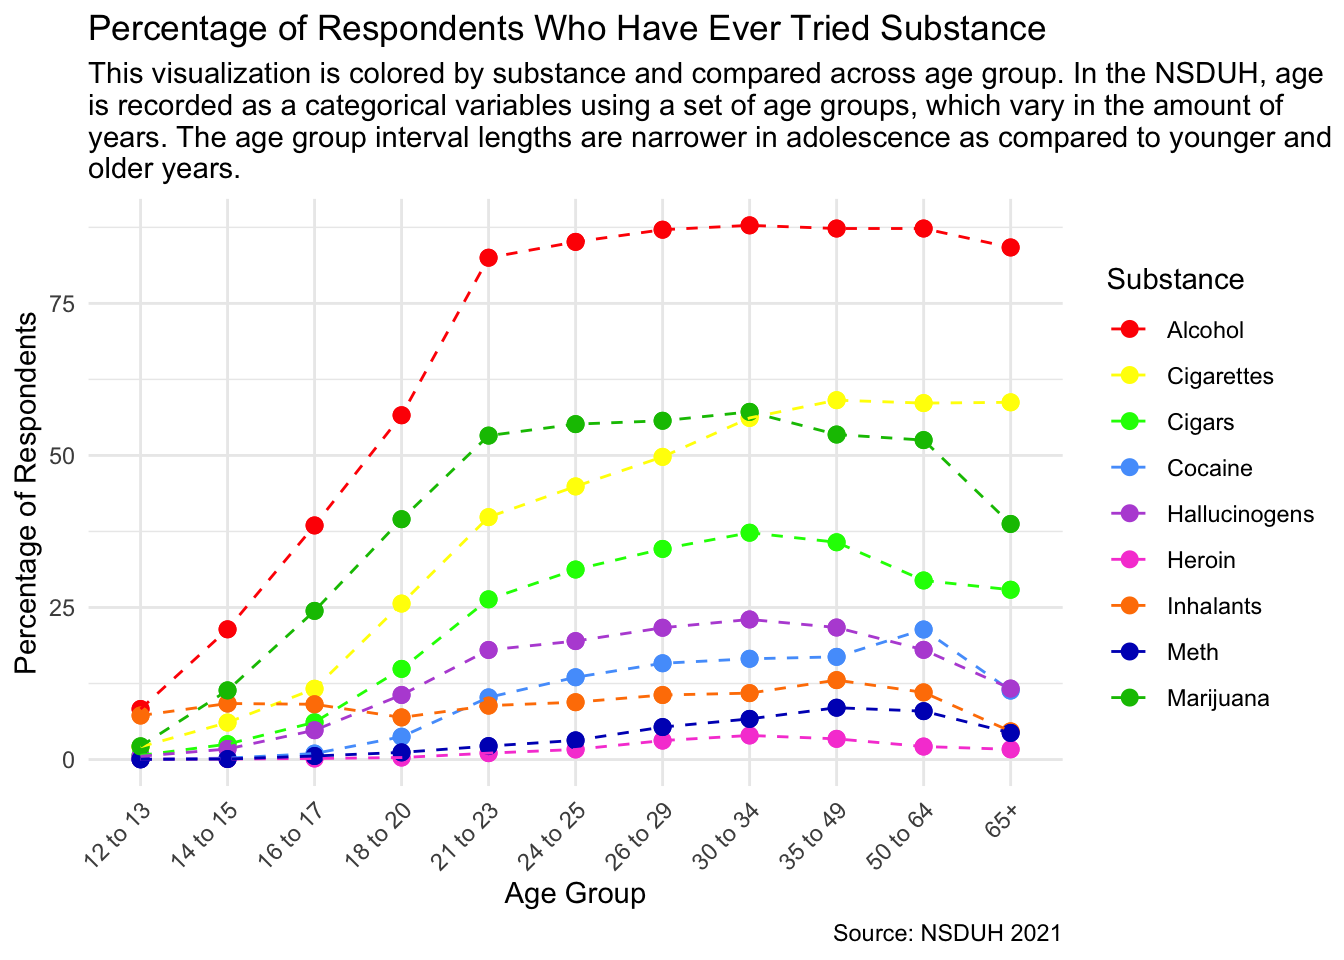
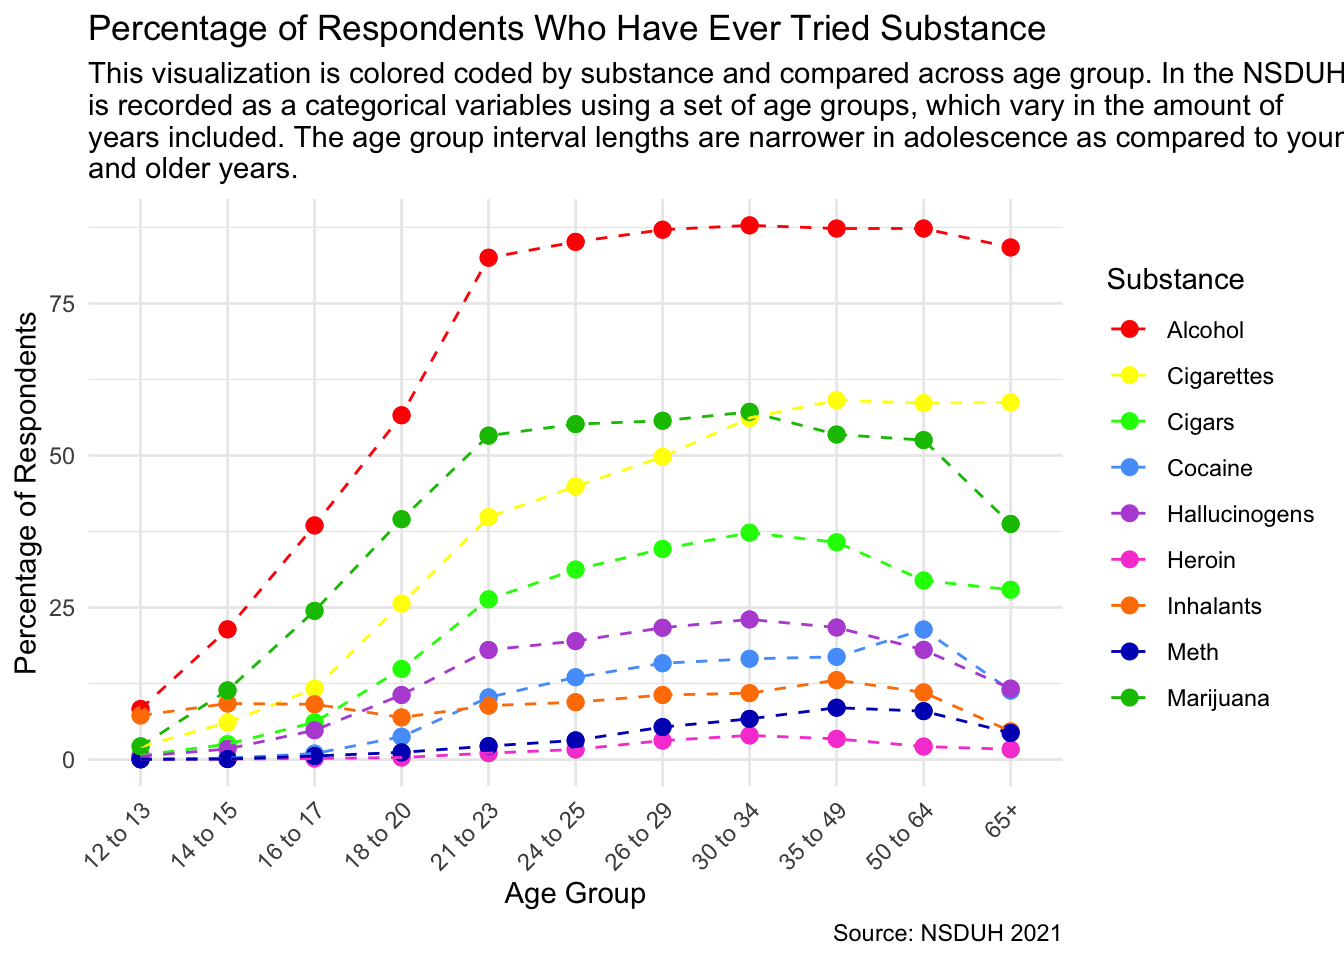
Revises language in example analysis

Changed region(s): [[0.0625, 0.125, 1.0, 0.1875], [0.3438, 0.0625, 1.0, 0.0938]]

diff --git a/docs/Example_Analysis.html b/docs/Example_Analysis.html
@@ -204,8 +204,8 @@ div.csl-indent {
 <section id="research-question" class="level1">
 <h1>Research Question</h1>
 <p><strong>How does recreational substance use vary across age and sex?</strong></p>
-<p>A person’s relationship with substance use is dynamic and may change throughout their life. With this in mind, researchers are often interested in exploring how different groups of people use recreational drugs. Recently, there have been increased concerns about the interaction of substance use and mental health issues for youth<span class="citation" data-cites="panchal_recent_2022"><sup><a href="#ref-panchal_recent_2022" role="doc-biblioref">1</a></sup></span>. Other reports have described increased binge drinking and marijuana use among middle aged adults<span class="citation" data-cites="richtel_middle-aged_2023"><sup><a href="#ref-richtel_middle-aged_2023" role="doc-biblioref">2</a></sup></span> and substance use disorders among older adults<span class="citation" data-cites="span_substance_2023"><sup><a href="#ref-span_substance_2023" role="doc-biblioref">3</a></sup></span>. While men are more likely to use substances than women<span class="citation" data-cites="noauthor_sex_nodate"><sup><a href="#ref-noauthor_sex_nodate" role="doc-biblioref">4</a></sup></span>, stigmatization contributes to women being less likely to connect with substance use treatment resources<span class="citation" data-cites="krug_women_2023"><sup><a href="#ref-krug_women_2023" role="doc-biblioref">5</a></sup></span>. Overall, understanding how different groups of people interact with substances helps medical and public health professionals support these impacted groups.</p>
-<p>In this analysis, I am interested in further exploring how substance use varies across age and sex in the United States. To do so, I will be using survey data from the National Survey on Drug Use and Health. This analysis is intended for anyone interested in public health and trends related to these topics.</p>
+<p>A person’s relationship with substance use is dynamic and may change throughout their life. Researchers are often interested in exploring how different groups of people use recreational drugs. Recently, there have been increased concerns about the interaction of substance use and mental health issues for youth<span class="citation" data-cites="panchal_recent_2022"><sup><a href="#ref-panchal_recent_2022" role="doc-biblioref">1</a></sup></span>. Other reports have described increased binge drinking and marijuana use among middle aged adults<span class="citation" data-cites="richtel_middle-aged_2023"><sup><a href="#ref-richtel_middle-aged_2023" role="doc-biblioref">2</a></sup></span> and substance use disorders among older adults<span class="citation" data-cites="span_substance_2023"><sup><a href="#ref-span_substance_2023" role="doc-biblioref">3</a></sup></span>. While men are more likely to use substances than women<span class="citation" data-cites="noauthor_sex_nodate"><sup><a href="#ref-noauthor_sex_nodate" role="doc-biblioref">4</a></sup></span>, stigmatization contributes to women being less likely to connect with substance use treatment resources<span class="citation" data-cites="krug_women_2023"><sup><a href="#ref-krug_women_2023" role="doc-biblioref">5</a></sup></span>. Overall, understanding how different groups of people interact with recreational drugs helps medical and public health professionals better support these impacted groups.</p>
+<p>In this analysis, I am interested in further exploring how substance use varies across age and sex in the United States. To do so, I will be using survey data from the National Survey on Drug Use and Health. This analysis is intended for anyone interested in public health and trends related to these important topics.</p>
 </section>
 <section id="data-source" class="level1 page-columns page-full">
 <h1>Data Source</h1>
@@ -219,12 +219,12 @@ div.csl-indent {
 <li><p>Integrating Behavioral and Physical Health Care</p></li>
 <li><p>Strengthening the Behavioral Health Workforce</p></li>
 </ul>
-</div></div><p>I used data from the 2021 <a href="https://nsduhweb.rti.org/respweb/homepage.cfm">National Survey of Drug Use and Health</a>. The NSDUH has been conducted by the U.S. government since 1971. This survey explores questions related to substance use, mental health, and other health concerns. I used <a href="https://www.datafiles.samhsa.gov/dataset/national-survey-drug-use-and-health-2021-nsduh-2021-ds0001">this link</a> to download the dataset and the codebook can be found <a href="https://www.datafiles.samhsa.gov/sites/default/files/field-uploads-protected/studies/NSDUH-2021/NSDUH-2021-datasets/NSDUH-2021-DS0001/NSDUH-2021-DS0001-info/2021NSDUHmrbCAISpecs011321.pdf">here</a>.</p>
+</div></div><p>I used data from the 2021 <a href="https://nsduhweb.rti.org/respweb/homepage.cfm">National Survey of Drug Use and Health</a> (NSDUH). The NSDUH has been conducted by the U.S. government since 1971. This survey explores questions related to substance use, mental health, and other health concerns. I downloaded the data via <a href="https://www.datafiles.samhsa.gov/dataset/national-survey-drug-use-and-health-2021-nsduh-2021-ds0001">this link</a>. The associated codebook can be found <a href="https://www.datafiles.samhsa.gov/sites/default/files/field-uploads-protected/studies/NSDUH-2021/NSDUH-2021-datasets/NSDUH-2021-DS0001/NSDUH-2021-DS0001-info/2021NSDUHmrbCAISpecs011321.pdf">here</a>.</p>
 </section>
 <section id="data-wrangling" class="level1">
 <h1>Data Wrangling</h1>
-<p>Throughout this analysis, I use data collected about substance use related to cigarettes, cigars, alcohol, marijuana, cocaine, heroin, hallucinogens, inhalants, methamphetamine, and inhalants. While I focused on recreational drugs, the NSDUH explores different types of substances, including prescription medications, as well as specific substances within a class of drugs, such as LSD.</p>
-<p>I primarily used tidyverse functions to clean and transform my data. I have added comments to the included code to further highlight the different steps I took.</p>
+<p>Throughout this analysis, I used data collected about consumption of cigarettes, cigars, alcohol, marijuana, cocaine, heroin, hallucinogens, inhalants, methamphetamine, and inhalants. While I focused on these recreational drugs in this analysis, the NSDUH explores different types of substances, including prescription medications, as well as specific substances within a class of drugs, such as LSD.</p>
+<p>I primarily used tidyverse functions to clean and transform my data. I have added comments to the included code to describe my steps.</p>
 <div class="cell">
 <details>
 <summary>Code</summary>
@@ -408,7 +408,7 @@ div.csl-indent {
 <section id="substances-ever-used-across-age" class="level2">
 <h2 class="anchored" data-anchor-id="substances-ever-used-across-age">Substances Ever Used Across Age</h2>
 <p><strong>How does any lifetime drug use vary across age?</strong></p>
-<p>I used survey data asking respondents whether they had ever used a substance in their life. As we may expect, fewer people have tried substances traditionally thought of as “harder drugs,” like heroin and meth, than legal substances, like alcohol and cigarettes. In older age groups, there is a wider gaps in exposure across the different substances. Perhaps in younger age groups, especially when none of these substances are legal, the respondents who are using substances are less discriminatory about which substance they do use.</p>
+<p>I used survey data asking respondents whether they had ever used a substance in their life. Fewer people have tried substances traditionally thought of as “harder drugs,” like heroin and meth, than legal substances, like alcohol and cigarettes. In older age groups, there are wider gaps in exposure across the different substances. In addition, there are trends related to certain substances being more popular among certain age groups. Inhalants are more popular relative to other substances in younger age groups. In the 30 to 34 age group and those younger, marijuana is more likely to have been tried than cigarettes, but this trend is reversed in older age groups.</p>
 <div class="callout callout-style-simple callout-note callout-titled">
 <div class="callout-header d-flex align-content-center">
 <div class="callout-icon-container">
@@ -419,7 +419,7 @@ Visualization Note
 </div>
 </div>
 <div class="callout-body-container callout-body">
-<p>Please note that the age categories are not of equal size. These are the same age categories used in the NSDUH survey. The dashed lines connecting the points are meant to help guide the reader to see trends across these age groups, but not imply continuous age data</p>
+<p>Please note that these age categories are not of equal size. These are the same age categories used in the NSDUH survey. The dashed lines connecting the points are meant to help illustrate trends across these age groups, but not to imply continuous age data.</p>
 </div>
 </div>
 <div class="cell">
@@ -442,7 +442,7 @@ Visualization Note
 <span id="cb2-15"><a href="#cb2-15" aria-hidden="true" tabindex="-1"></a>  <span class="fu">geom_point</span>(<span class="at">size =</span> <span class="fl">2.5</span>) <span class="sc">+</span></span>
 <span id="cb2-16"><a href="#cb2-16" aria-hidden="true" tabindex="-1"></a>  <span class="fu">geom_path</span>(<span class="at">linetype =</span> <span class="dv">2</span>) <span class="sc">+</span></span>
 <span id="cb2-17"><a href="#cb2-17" aria-hidden="true" tabindex="-1"></a>  <span class="fu">labs</span>(<span class="at">title =</span> <span class="st">"Percentage of Respondents Who Have Ever Tried Substance"</span>,</span>
-<span id="cb2-18"><a href="#cb2-18" aria-hidden="true" tabindex="-1"></a>       <span class="at">subtitle =</span> <span class="st">"This visualization is colored by substance and compared across age group. In the NSDUH, age </span><span class="sc">\n</span><span class="st">is recorded as a categorical variables using a set of age groups, which vary in the amount of </span><span class="sc">\n</span><span class="st">years. The age group interval lengths are narrower in adolescence as compared to younger and </span><span class="sc">\n</span><span class="st">older years."</span>,</span>
+<span id="cb2-18"><a href="#cb2-18" aria-hidden="true" tabindex="-1"></a>       <span class="at">subtitle =</span> <span class="st">"This visualization is colored coded by substance and compared across age group. In the NSDUH, age </span><span class="sc">\n</span><span class="st">is recorded as a categorical variables using a set of age groups, which vary in the amount of </span><span class="sc">\n</span><span class="st">years included. The age group interval lengths are narrower in adolescence as compared to younger </span><span class="sc">\n</span><span class="st">and older years."</span>,</span>
 <span id="cb2-19"><a href="#cb2-19" aria-hidden="true" tabindex="-1"></a>       <span class="at">x =</span> <span class="st">"Age Group"</span>,</span>
 <span id="cb2-20"><a href="#cb2-20" aria-hidden="true" tabindex="-1"></a>       <span class="at">y =</span> <span class="st">"Percentage of Respondents"</span>,</span>
 <span id="cb2-21"><a href="#cb2-21" aria-hidden="true" tabindex="-1"></a>       <span class="at">caption =</span> <span class="st">"Source: NSDUH 2021"</span>) <span class="sc">+</span></span>
@@ -468,8 +468,8 @@ Visualization Note
 </section>
 <section id="substances-ever-used-across-sex" class="level2">
 <h2 class="anchored" data-anchor-id="substances-ever-used-across-sex">Substances Ever Used across Sex</h2>
-<p><strong>How does any lifetime drug use vary across sex and age?</strong></p>
-<p>This analysis uses the same survey data as the previous section, though the responses are grouped by sex, which was recorded as a binary variable in the survey data. In most cases, the percentage of male participants who have experimented with these substances in greater than the percentage of female participants. The difference in these percentages appears to be larger in older age groups.</p>
+<p><strong>How does any lifetime drug use vary across age <em>and sex</em>?</strong></p>
+<p>This analysis uses the same survey questions as the previous section, though the responses are grouped by sex, which was recorded as a binary variable in the survey data. In most cases, the percentage of male participants who have experimented with these substances in greater than the percentage of female participants. This gender gap in lifetime substance use experience appears to be larger in older age groups.</p>
 <div class="callout callout-style-simple callout-note callout-titled">
 <div class="callout-header d-flex align-content-center">
 <div class="callout-icon-container">
@@ -480,7 +480,7 @@ Visualization Note
 </div>
 </div>
 <div class="callout-body-container callout-body">
-<p>Please note that the scales on the y-axis are not identical across the faceted plots for the next two visualizations. Because of the wide variation in prevalance of use for these different substances, I chose to adjust the y-axis’ scale in order to clarify the use differences across sex.</p>
+<p>Please note that the scales on the y-axis are not identical across the faceted plots for the next two visualizations. Because of the wide variation in prevalence of use for these different substances, I chose to adjust the y-axis’ scale in order to clarify the use differences across sex.</p>
 </div>
 </div>
 <div class="cell">
@@ -531,7 +531,7 @@ Visualization Note
 <section id="recent-substance-use-across-age-and-sex" class="level2">
 <h2 class="anchored" data-anchor-id="recent-substance-use-across-age-and-sex">Recent Substance Use Across Age and Sex</h2>
 <p><strong>How does recent drug use vary across age and sex?</strong></p>
-<p>In this section, I used survey data about how recent the respondent has used a substance. While there were often more categories available, depending on the substance, I chose to define “recent use” as happening in the last 12 months and coded the responses to reflect a binary variable. Similar to the responses related to any lifetime use in my earlier visualization, male respondents are overall more likely to use these substances than female participants.</p>
+<p>In this section, I used survey data about more recent substance use. I chose to define “recent use” as happening in the last 12 months across all substances. Similar to the responses related to any lifetime use in my earlier visualization, male respondents are overall more likely to use these substances than female participants.</p>
 <div class="cell">
 <details>
 <summary>Code</summary>
@@ -578,7 +578,7 @@ Visualization Note
 <section id="age-of-substance-use-initiation" class="level2">
 <h2 class="anchored" data-anchor-id="age-of-substance-use-initiation">Age of Substance Use Initiation</h2>
 <p><strong>When are people most likely to try a drug for the first time?</strong></p>
-<p>To explore this question, I used survey data asking respondents about the age of their first use of a substance. While this data was numeric with integers for age, I chose to create age group categories instead. For nearly all of the substances, the age group 15-19 is the most common time when people use for the first time. In general, substances generally considered “harder drugs” are initiated at older ages than drugs that are legal for adults.</p>
+<p>To explore this question, I used survey data asking respondents about the age of their first use of a substance. While this data was numeric with integers for age, I chose to instead create age group categories. For nearly all of the substances, the age group 15-19 is the most common time when people use a drug for the first time. In general, substances generally considered “harder drugs” are initiated at older ages than drugs that do not have this same connotation.</p>
 <div class="cell">
 <details>
 <summary>Code</summary>
@@ -633,8 +633,8 @@ Visualization Note
 <span id="cb5-49"><a href="#cb5-49" aria-hidden="true" tabindex="-1"></a>  <span class="fu">scale_fill_gradient</span>(<span class="at">low =</span> <span class="st">"lightblue"</span>, <span class="at">high =</span> <span class="st">"darkblue"</span>) <span class="sc">+</span></span>
 <span id="cb5-50"><a href="#cb5-50" aria-hidden="true" tabindex="-1"></a>  <span class="fu">theme_minimal</span>() <span class="sc">+</span></span>
 <span id="cb5-51"><a href="#cb5-51" aria-hidden="true" tabindex="-1"></a>  <span class="fu">labs</span>(</span>
-<span id="cb5-52"><a href="#cb5-52" aria-hidden="true" tabindex="-1"></a>    <span class="at">title =</span> <span class="st">"Age When Respondents First Used Substance"</span>,</span>
-<span id="cb5-53"><a href="#cb5-53" aria-hidden="true" tabindex="-1"></a>    <span class="at">subtitle =</span> <span class="st">"Substances are organized by median age of substance use initiation, </span><span class="sc">\n</span><span class="st">with greater median age at the top of the plot. Respondents are included </span><span class="sc">\n</span><span class="st">if they have ever used the substance."</span>,</span>
+<span id="cb5-52"><a href="#cb5-52" aria-hidden="true" tabindex="-1"></a>    <span class="at">title =</span> <span class="st">"Age When Respondent First Used Substance"</span>,</span>
+<span id="cb5-53"><a href="#cb5-53" aria-hidden="true" tabindex="-1"></a>    <span class="at">subtitle =</span> <span class="st">"Substances are organized by median age of substance use initiation, with greater </span><span class="sc">\n</span><span class="st">median age at the top of the plot. The percentage on each tile reflects the percentage </span><span class="sc">\n</span><span class="st">of respondents who have ever used that substance and first used it during that age </span><span class="sc">\n</span><span class="st">range."</span>,</span>
 <span id="cb5-54"><a href="#cb5-54" aria-hidden="true" tabindex="-1"></a>    <span class="at">x =</span> <span class="st">"Age of Substance Use Initiation (years)"</span>,</span>
 <span id="cb5-55"><a href="#cb5-55" aria-hidden="true" tabindex="-1"></a>    <span class="at">y =</span> <span class="st">""</span>,</span>
 <span id="cb5-56"><a href="#cb5-56" aria-hidden="true" tabindex="-1"></a>    <span class="at">fill =</span> <span class="st">"Percentage </span><span class="sc">\n</span><span class="st">of Respondents"</span>,</span>
@@ -651,7 +651,7 @@ Visualization Note
 </section>
 <section id="summary" class="level1">
 <h1>Summary</h1>
-<p>Substance use varies widely across age and sex. Across the NSDUH age groups, substance use experience varies widely. The types of drugs that respondents have ever used varies across age groups. In addition, there is a gender gap in the number of respondents who have ever used these substances. The number of people who have used a substance in the last 12 months also varies across age group and sex. In general, respondents were most likely to have first tried a substance in their later teenage years. This analysis is only the tip of the iceberg in exploring demographic differences in substance use. I am so excited to continue learning about statistical analyses and epidemiology so that I will become better equipped to continue exploring these questions and investigating these topics.</p>
+<p>As represented in the NSDUH survey data, substance use varies widely across age and sex. There are gender and age gaps in the number of respondents who have ever used and recently used these substances. These trends are amplified in specific substances. In general, respondents were most likely to have first tried a substance in their later teenage years. One possible limitation of this analysis is the use of survey data, which relies on self-reported substance use. This analysis is only the tip of the iceberg in exploring demographic differences in substance use. I am so excited to continue learning about statistical analyses and epidemiology so that I will become better equipped to continue exploring these questions and investigating these topics.</p>
 <section id="functions-used" class="level3">
 <h3 class="anchored" data-anchor-id="functions-used">Functions used</h3>
 <p><strong>dyplr:</strong> filter, select, summarise, mutate, group_by, ungroup, arrange</p>

diff --git a/docs/about.html b/docs/about.html
@@ -148,7 +148,7 @@ ul.task-list li input[type="checkbox"] {
 </div>
 <section id="bio" class="level2">
 <h2 class="anchored" data-anchor-id="bio">🍉 Bio</h2>
-<p>Hi! I’m a graduate student at Johns Hopkins Bloomberg School of Public Health and I’m studying epidemiology with a focus on pharmacoepidemiology. I’m excited for future opportunities to learn more about drug safety, utilization, and effectiveness.</p>
+<p>Hi! I’m a graduate student at Johns Hopkins Bloomberg School of Public Health and I’m studying epidemiology with a focus on pharmacoepidemiology. I’m especially looking forward to learning more about drug safety, utilization, and effectiveness.</p>
 <p>Outside of school, I love to run 👟, sew 🧵, and cook 🥗. I’m originally from Southern California and I’m having so much fun exploring Baltimore!</p>
 </section>
 <section id="education" class="level2">
